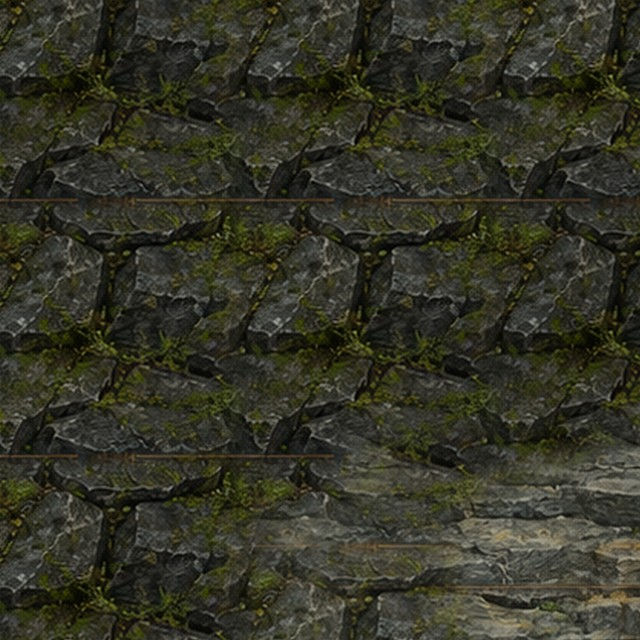
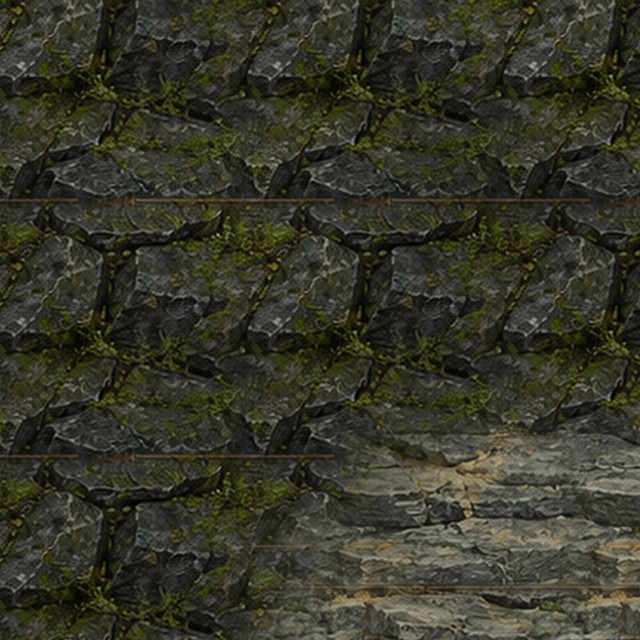
Booty Bay's outer harbour; hidden-zone epic rates set by Kyle
Booty Bay (backlog [51], "Rebuild Booty Bay as a real goblin hub - EXPAND THE DOCKS OUTWARD"):
the map runs 34 tiles further east and the three piers run out to a second ring of town on the
open bay: the outer wharf, the long quay for the deep-water ships, the fish market and a boardwalk
joining them. Seven buildings, cranes, a cannon, moored ships, six new people. The old town and
every portal and boat contract are where they were.

Epics (Kyle: "epic drops from trash in frontier zone can be set at 1%", "Boss can have epic drop
anywhere between 5% to 8%"): frontier trash 1%; a hidden-zone boss's epic is rolled for on its
own, 5% (8% in a frontier), and qa_hidden_zones measures it.

Claude-Session: https://claude.ai/code/session_015TQrViPbuGDeiupTWSG9TT

Changed region(s): [[0.4062, 0.6562, 0.9688, 1.0], [0.4062, 0.7812, 0.4688, 0.875]]

diff --git a/tools/handbuilt_booty_bay.py b/tools/handbuilt_booty_bay.py
@@ -49,7 +49,10 @@ KEY = "booty_bay"
 NAME = "Booty Bay"
 DESC = "A goblin port standing on pilings over a lagoon. Nothing sails without the Baron."
 REGION = "Eastern Kingdoms - Stranglethorn"
-W, H = 70, 60
+#: 104 wide since 14 Nov 2026 (backlog [51], Kyle: "Rebuild Booty Bay as a real goblin hub - EXPAND THE
+#: DOCKS OUTWARD"). The old town stands where it stood; everything east of x=70 is new water and the
+#: outer harbour built over it.
+W, H = 104, 60
 BAKED_DIR = "assets/tiles/booty_bay/baked"
 IS_TOWN = True
 BASE_TILE = "grass"
@@ -79,6 +82,16 @@ DECKS = [
     (44.0, 66.0, 32.6, 35.6),        # middle pier
     (58.5, 69.0, 30.2, 38.8),        # middle pier head platform (boat at 64,34)
     (44.0, 58.0, 44.6, 47.4),        # south pier
+    # ---- THE OUTER HARBOUR (14 Nov 2026). The three piers run on out past the cove mouth, and at
+    # their ends the town starts again: a wharf, a long quay for the deep-water ships, a fish market,
+    # and a boardwalk joining all three, so the docks are a second ring of town out on the open bay.
+    (62.0, 80.0, 24.6, 27.4),        # the north pier, run out
+    (77.0, 93.0, 17.0, 30.0),        # THE OUTER WHARF: the warehouses
+    (69.0, 82.0, 32.6, 35.6),        # the middle pier, run out past the boat
+    (80.0, 101.0, 29.0, 40.0),       # THE LONG QUAY: where the deep-water ships tie up
+    (58.0, 78.0, 44.6, 47.4),        # the south pier, run out
+    (75.0, 91.0, 41.0, 53.0),        # THE FISH MARKET
+    (84.0, 88.0, 28.0, 44.0),        # the boardwalk joining the three
 ]
 
 _RS = K.RoadSet(ROADS)
@@ -119,7 +132,8 @@ def cliff_field(gx, gy):
     inland = shore(gy) - gx                       # >0 on the land side of the waterline
     out = inland * 1.6 + 1.0 * _wob(gx, gy)
     # knuckles standing out of the water: the stacks off the cove mouth and one inside the arms
-    for (cx, cy, rx, ry) in [(63, 12, 5.0, 3.6), (56, 54, 4.6, 3.2), (52, 40, 3.0, 2.4)]:
+    for (cx, cy, rx, ry) in [(63, 12, 5.0, 3.6), (56, 54, 4.6, 3.2), (52, 40, 3.0, 2.4),
+                             (97, 8, 4.0, 3.2), (99, 55, 3.4, 2.8), (70, 57, 3.0, 2.2)]:
         r = np.sqrt(((gx - cx) / rx) ** 2 + ((gy - cy) / ry) ** 2)
         out = np.maximum(out, (1 - r) * min(rx, ry))
     clear = np.full(gx.shape, -99.0)
@@ -181,6 +195,13 @@ NPC_POSITIONS = {
     "bootybay_baron": (44, 35),                # Baron Revilgaz, on the gallery above his warehouse
     "bootybay_baron_aide": (29, 44),           # Aide Fipple
     "bootybay_bloodsail_captive": (24, 44),    # a Bloodsail nobody has decided what to do with
+    # the outer harbour
+    "bootybay_wharf_boss": (82, 28),           # Wharf-Boss Grizzle, the outer wharf
+    "bootybay_cannoneer": (99, 35),            # Gunner Spark, the quay's end
+    "bootybay_quay_bookie": (90, 31),          # Lucky Fen, takes bets on which ship sinks
+    "bootybay_net_mender": (89, 51),           # Old Tansy, mends nets at the fish market
+    "bootybay_deckhand": (86, 38),             # Deckhand Mox, on the boardwalk
+    "bootybay_smuggler": (77, 52),             # Velvet Pike, who isn't here
 }
 FORGE = (23, 27)
 EXTRA_NPC_XY = [FORGE]
@@ -189,7 +210,7 @@ EXTRA_NPC_XY = [FORGE]
 #: decking, and decking is laid down as "path". So the chests are placed directly on the boards below,
 #: as crates on the quay, which is where they would actually be in a port.
 CHESTS = []
-DECK_CHESTS = [(18, 26), (59, 26), (62, 34), (18, 49), (40, 35)]
+DECK_CHESTS = [(18, 26), (59, 26), (62, 34), (18, 49), (40, 35), (78, 19), (100, 39), (76, 52)]
 
 
 def _veg(L, name, cx, base_y, height, path_dir=SP, max_push=14):
@@ -252,7 +273,9 @@ def dress(L):
     # top of the boarding tile it is supposed to mark. Kyle, 10 Nov: "boat portal from BB to
     # ratchet is blocked by a boat, move that prop off the dock and into the water." It now
     # rides just south of the pier, where the boarding tile reads as the way onto it.
-    L.deco("boat_orc", 65, 46, 8)
+    # (the orc ship that rode south of the middle pier moved out to the long quay when the south pier
+    # was run out over its mooring, 14 Nov 2026; a rowboat keeps the berth)
+    L.deco("stv_rowboat", 66, 42, 3, path_dir=SP)
     L.deco("boat_troll", 61, 29, 7)
 
     # ---- the headland: the gate, the bone arch, the only soil in the zone ------------------------
@@ -318,6 +341,39 @@ def dress(L):
     L.deco("stv_fish_crates", 66, 38, 3, path_dir=SP)
     L.deco("stv_outrigger", 49, 48, 4, path_dir=SP)
     L.deco("stv_boat_wreck", 60, 50, 4, path_dir=SP)
+
+    # ---- THE OUTER HARBOUR: wharf, long quay, fish market, and the ships riding off them -------------
+    B("bb_warehouse", 85, 23, 7, nudge=3)
+    B("gg_supply_store", 80, 27, 5, nudge=2)
+    B("bb_lean_shack", 90, 27, 5, nudge=2)
+    B("bb_trade_shop", 93, 37, 6, nudge=3)
+    B("bd_dock_house", 82, 38, 6, nudge=3)
+    B("bb_lean_shack", 80, 50, 5, nudge=2)
+    B("bb_trade_shop", 87, 49, 5, nudge=2)
+    L.prop("stv_fish_rack", 78, 45, 4, path_dir=SP)
+    L.prop("stv_fish_crates", 84, 45, 3, path_dir=SP)
+    L.prop("stv_lobster_pots", 90, 44, 3, path_dir=SP)
+    L.prop("stv_dock_crane", 92, 21, 7, path_dir=SP)
+    L.prop("stv_cargo_net", 79, 20, 3, path_dir=SP)
+    L.prop("stv_barrel_stack", 96, 31, 3, path_dir=SP)
+    L.prop("stv_dock_cannon", 100, 33, 3, path_dir=SP)
+    L.prop("stv_ships_bell", 98, 38, 3, path_dir=SP)
+    for (x, y) in [(66, 25), (72, 25), (78, 25), (72, 33), (78, 33), (64, 45), (70, 45), (76, 45),
+                   (82, 30), (94, 30), (100, 30), (82, 40), (100, 40), (77, 42), (90, 42), (86, 34)]:
+        L.deco("stv_dock_lantern", x, y, 4, path_dir=SP)
+    for (x, y) in [(81, 36), (91, 36), (79, 47), (89, 47)]:
+        L.deco("stv_bollard", x, y, 3, path_dir=SP)
+    # the ships: the deep-water traders tie up along the long quay, the fishing boats off the market
+    L.deco("boat_orc", 94, 46, 8)
+    L.deco("boat_troll", 92, 15, 7)
+    L.deco("boat_orc", 100, 25, 7)
+    L.deco("stv_outrigger", 74, 56, 4, path_dir=SP)
+    L.deco("stv_rowboat", 94, 54, 3, path_dir=SP)
+    L.deco("stv_rowboat", 72, 30, 3, path_dir=SP)
+    L.deco("stv_buoy", 70, 40, 3, path_dir=SP)
+    L.deco("stv_buoy", 98, 46, 3, path_dir=SP)
+    L.deco("stv_sea_stack", 97, 10, 9, path_dir=SP)
+    L.deco("stv_sea_stack", 99, 57, 8, path_dir=SP)
 
     # ---- the lagoon and the cliffs it is cut into ------------------------------------------------
     L.deco("stv_coral_outcrop", 62, 44, 4, path_dir=SP)

diff --git a/tools/build_stranglethorn_npcs.py b/tools/build_stranglethorn_npcs.py
@@ -117,6 +117,19 @@ BOOTY_BAY = {
                         "The vault is under the waterline and it has never flooded. Think about that."),
     "bootybay_flight_master": ("Wind-Rider Zekki", "troll", "female",
                                "North to the camp, and that is the whole map. Nobody flies out of this jungle."),
+    # the outer harbour (backlog [51], 14 Nov 2026)
+    "bootybay_wharf_boss": ("Wharf-Boss Grizzle", "goblin", "male",
+                            "Everything that comes off a ship comes past me. I've got a list. You're not on it yet."),
+    "bootybay_cannoneer": ("Gunner Spark", "goblin", "female",
+                           "Bloodsail sails come round that point about once a week. I'm the reason they keep going."),
+    "bootybay_quay_bookie": ("Lucky Fen", "goblin", "male",
+                             "Three to one the Crimson Gull doesn't make Ratchet. Want in? Course you do."),
+    "bootybay_net_mender": ("Old Tansy", "goblin", "female",
+                            "Hold that end. No, the other end. You've never held a net before, have you."),
+    "bootybay_deckhand": ("Deckhand Mox", "orc", "male",
+                          "Unload, load, unload. The tide doesn't take a day off, so neither do I."),
+    "bootybay_smuggler": ("Velvet Pike", "human", "female",
+                          "I'm not here. You didn't see me. And if you did, you saw somebody taller."),
 }
 BOOTY_BAY_VENDORS = {
     "bootybay_trader": ("Trader Nixxle", "goblin", "female", 38,
@@ -192,7 +205,7 @@ def merge(path, key, id_field, new):
     for e in new:
         by_id[e[id_field]] = e
     data[key] = [by_id[k] for k in by_id]
-    path.write_text(json.dumps(data, indent=2) + "\n", encoding="utf-8")
+    path.write_text(json.dumps(data, indent=2, ensure_ascii=False) + "\n", encoding="utf-8")
     return added, len(new) - added
 
 

diff --git a/tools/qa_hidden_zones.py b/tools/qa_hidden_zones.py
@@ -167,9 +167,10 @@ def main():
             bad.append(f"a hidden creature's loot is not lifted {lo}-{hi} item levels")
         # Kyle: "frontier dungeon zones can have epics at low chance" - and only there
         ec = getattr(m, "loot_epic_chance", 0.0)
-        if kind == "frontier_deep" and not 0 < ec <= 0.1:
-            bad.append("frontier dungeon trash has no low chance of an epic")
-        if kind != "frontier_deep" and ec:
+        # and then: "epic drops from trash in frontier zone can be set at 1%"
+        if kind.startswith("frontier") and abs(ec - 0.01) > 1e-9:
+            bad.append(f"frontier trash epic chance is {ec}, not 1%")
+        if not kind.startswith("frontier") and ec:
             bad.append("a non-frontier hidden creature rolls trash epics")
     # 6. boss loot
     from entities.boss_loot import get_fixed_boss_loot_all
@@ -192,6 +193,14 @@ def main():
                 bad.append("a hidden boss below level 30 has an epic")
             if len(get_fixed_boss_loot_all(boss)) != 2:
                 bad.append("a hidden boss doesn't drop two pieces")
+            # "Boss can have epic drop anywhere between 5% to 8%": measured, not assumed
+            if epics:
+                import random as _r
+                _r.seed(hash(boss) & 0xffff)
+                n = 4000
+                got = sum(any(i.rarity == "epic" for i in get_fixed_boss_loot_all(boss)) for _ in range(n)) / n
+                if not 0.03 <= got <= 0.10:
+                    bad.append(f"a hidden boss drops an epic {got:.1%} of the time, not 5-8%")
     # 7. skull zone quests
     from world.quest_manager import QuestManager
     with contextlib.redirect_stdout(io.StringIO()):

diff --git a/entities/boss_loot.py b/entities/boss_loot.py
@@ -170,6 +170,16 @@ def _hidden_multi_drop():
     return out
 
 
+def _hidden_epic_chance():
+    from world.hidden_zones import registry
+    out = {}
+    for z in registry().values():
+        for b in z.get("bosses") or []:
+            if "epic_chance" in z:
+                out[b] = float(z["epic_chance"])
+    return out
+
+
 def shares_hoard(boss_name):
     """True if this boss's drops come from another boss's table, so the
     caller must not roll anything for him at all."""
@@ -195,4 +205,15 @@ def get_fixed_boss_loot_all(boss_name):
     if not pool:
         return []
     count = min(MULTI_DROP.get(boss_name) or _hidden_multi_drop().get(boss_name, 1), len(pool))
+    # A HIDDEN-ZONE BOSS'S EPIC IS A CHANCE, NOT A GIVEN. Kyle, 14 Nov 2026: "Boss can have epic drop
+    # anywhere between 5% to 8% for now." The usual drops come from the rest of the pool; then the
+    # epic is rolled for on its own and, if it hits, takes one of their places.
+    chance = _hidden_epic_chance().get(boss_name)
+    if chance is not None:
+        plain = [d for d in pool if d.get("rarity") != "epic"]
+        epics = [d for d in pool if d.get("rarity") == "epic"]
+        picks = random.sample(plain, min(count, len(plain)))
+        if epics and random.random() < chance:
+            picks = picks[:max(0, count - 1)] + [random.choice(epics)]
+        return [_item_from_def(d) for d in picks]
     return [_item_from_def(d) for d in random.sample(pool, count)]

diff --git a/tools/build_hidden_content.py b/tools/build_hidden_content.py
@@ -1600,7 +1600,9 @@ def build():
                            "region": z.get("region"),
                            **({"frontier_type": z["frontier_type"]} if z.get("frontier_type") else {}),
                            "bosses": [n for n in names if z["creatures"][n][2]],
-                           "multi_drop": 2}
+                           "multi_drop": 2,
+                           # Kyle: "Boss can have epic drop anywhere between 5% to 8% for now."
+                           "epic_chance": 0.08 if z["kind"] == "frontier" else 0.05}
         for ex in z.get("extra_registry", {}).items():
             registry[zname][ex[0]] = ex[1]
     return kits, creatures, loot, registry, enc
